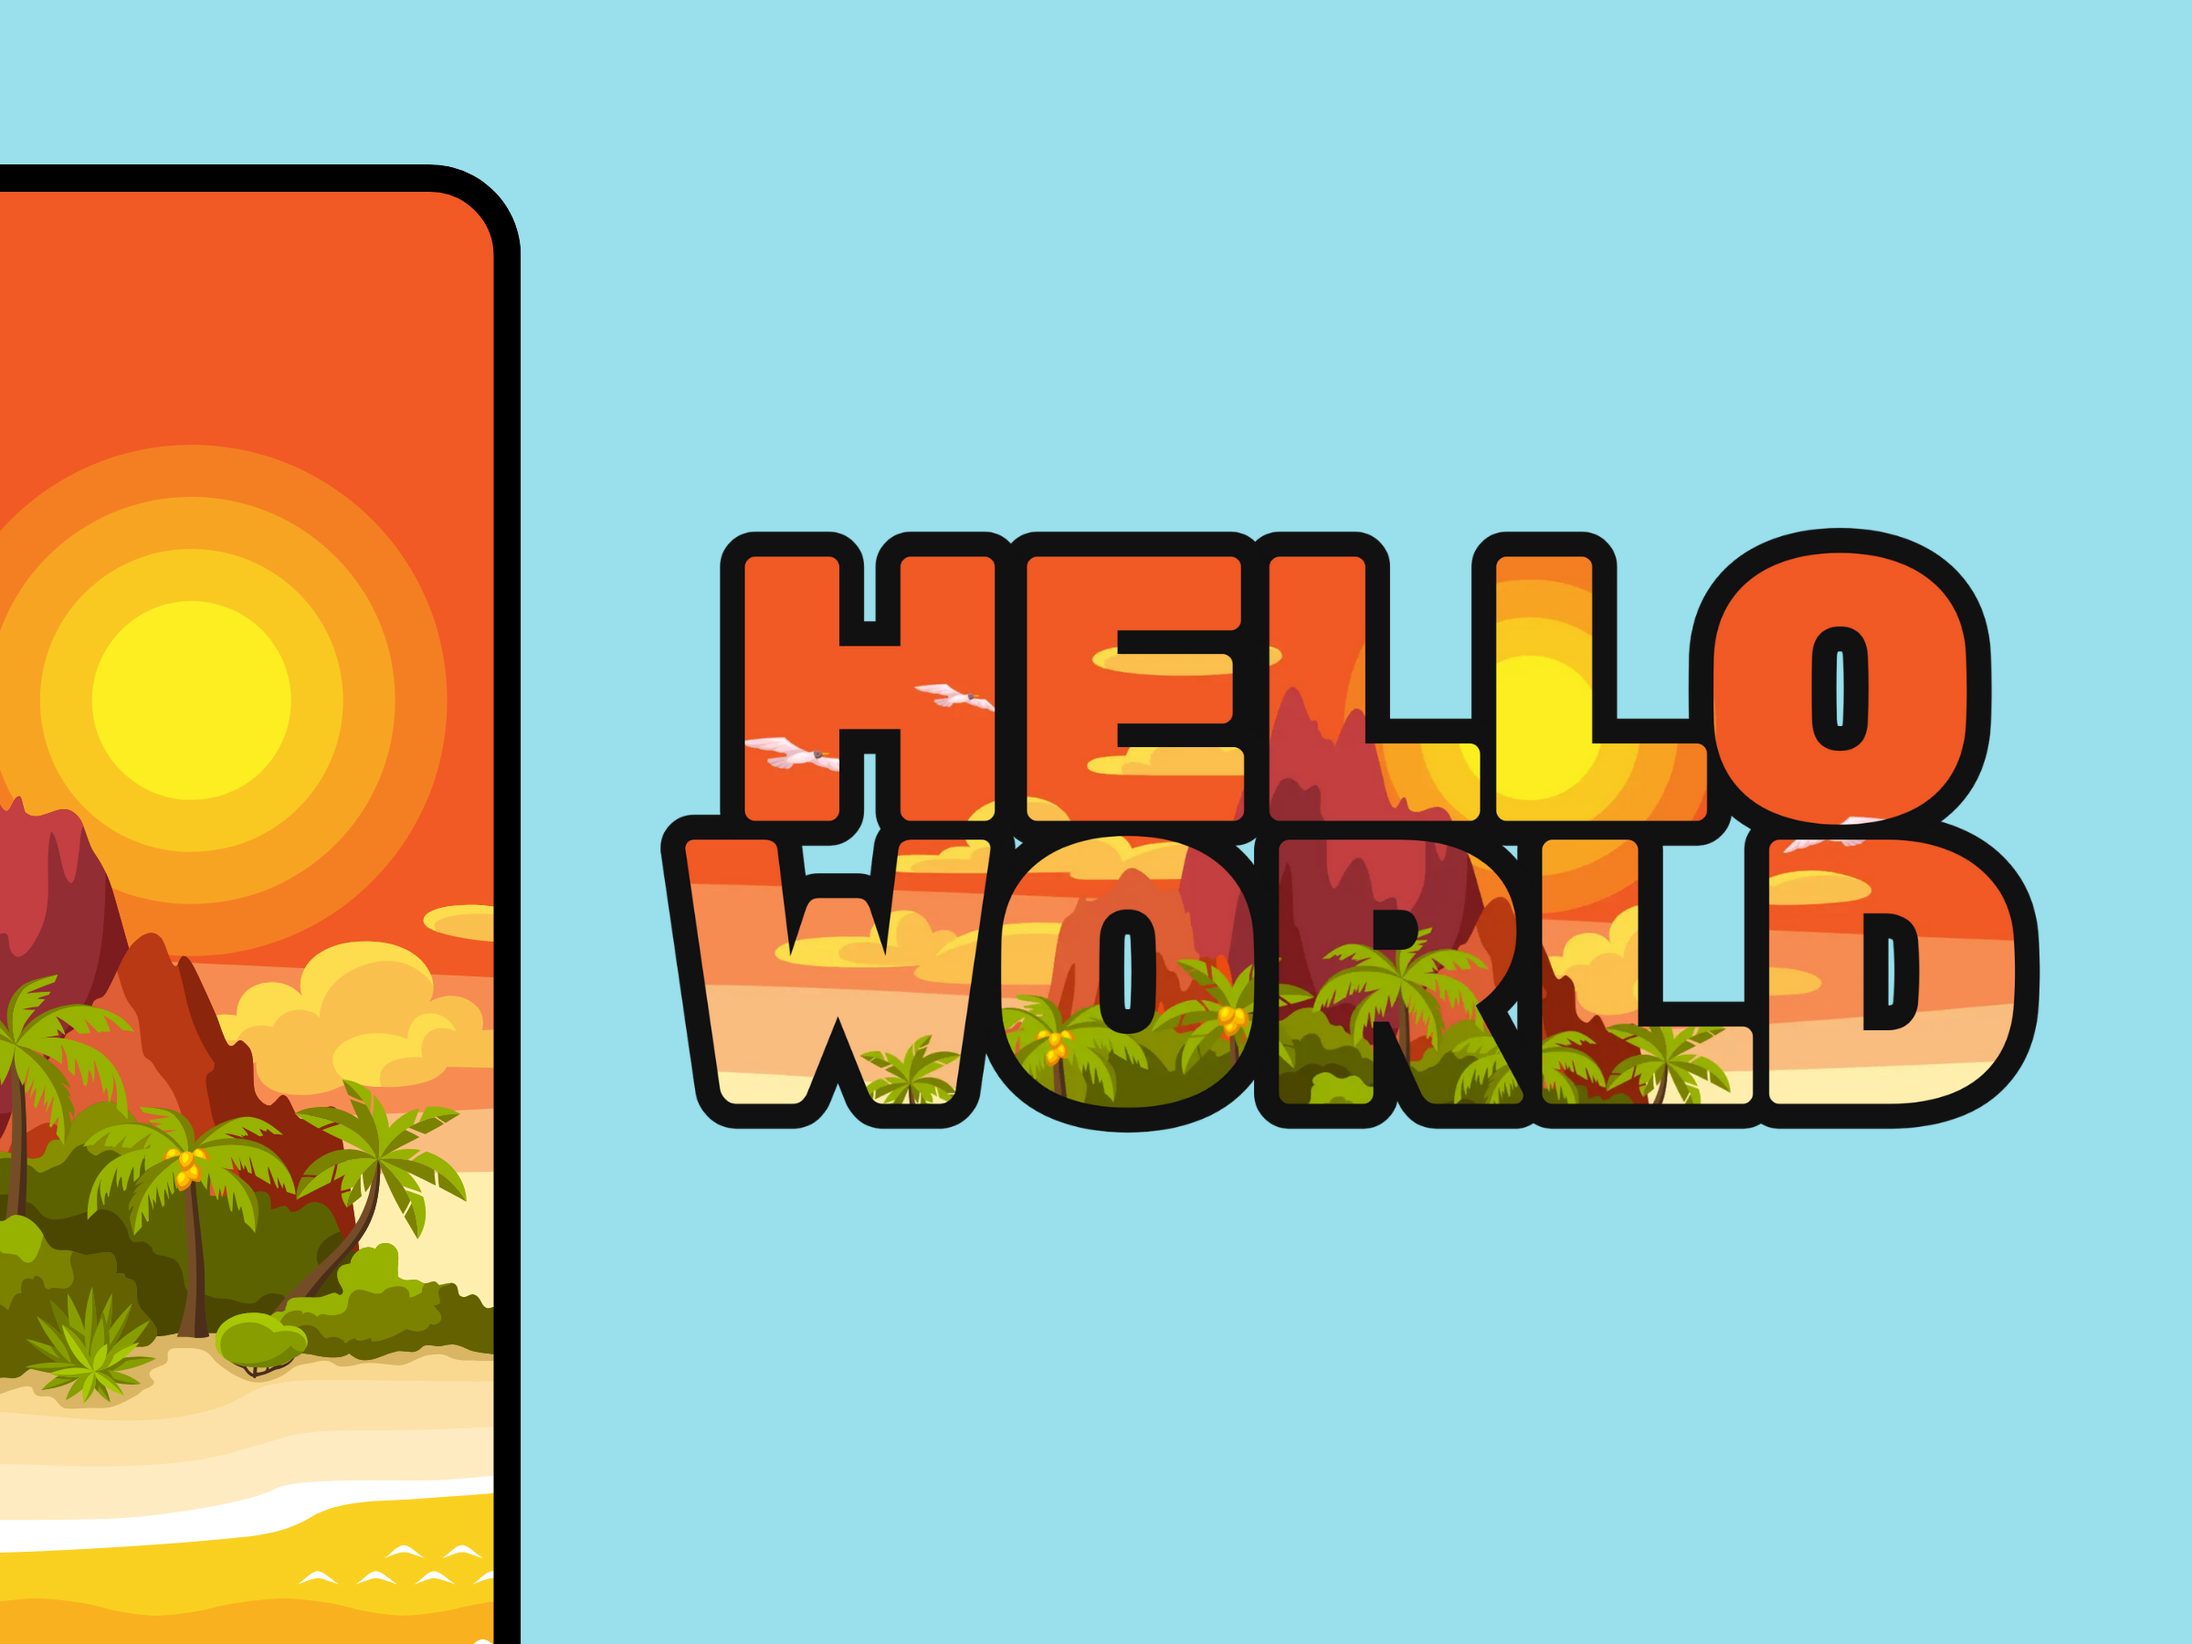
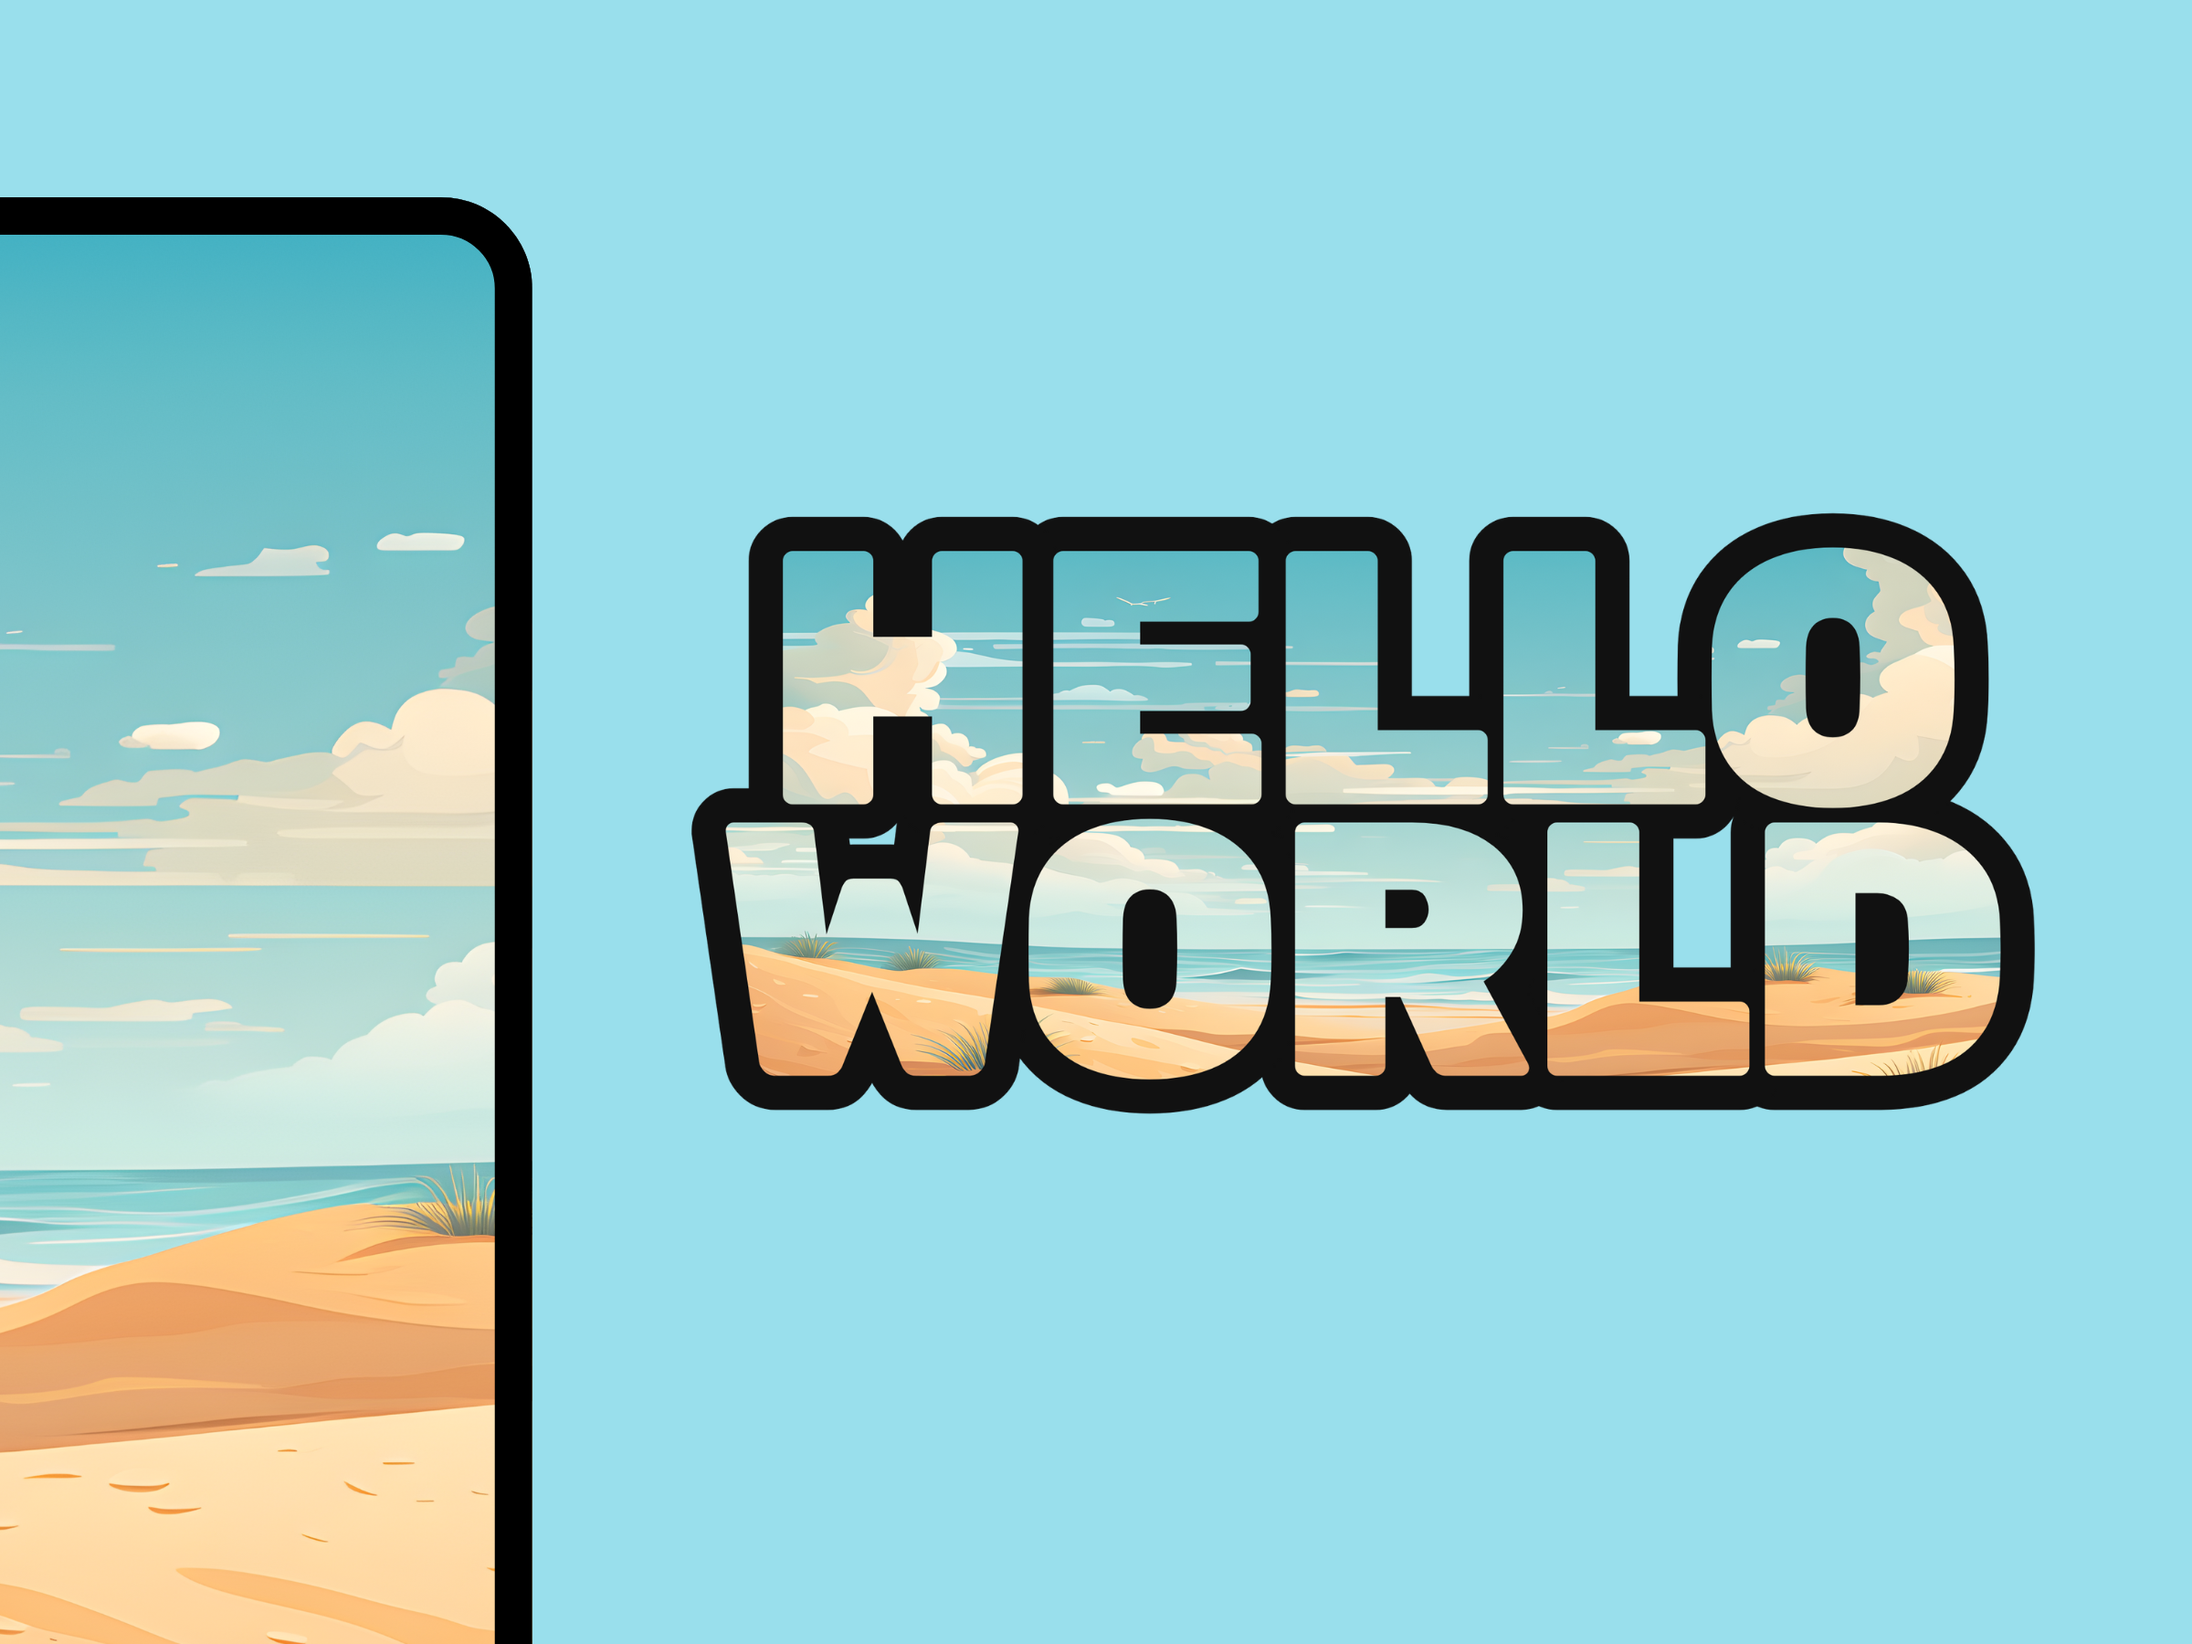
Added font studio to projects

diff --git a/src/data/projects.ts b/src/data/projects.ts
@@ -2,6 +2,15 @@ import {CoverImages} from '../utils/coverImages';
 
 export const PROJECTS = [
   {
+    title: 'FontStudio',
+    desc: ['A canva app that that allows creating advanced text effects.'],
+    img: CoverImages.fontStudio,
+    links: [
+      ['more details', '/canva/font-studio'],
+      ['canva', 'https://www.canva.com/apps/AAGLHfr5ZM0/fontstudio']
+    ]
+  },
+  {
     title: 'FontFrame',
     desc: ['A canva app that allows you to create text with any image background.'],
     img: CoverImages.fontFrame,

diff --git a/src/utils/coverImages.ts b/src/utils/coverImages.ts
@@ -4,6 +4,7 @@ import fontable from '../assets/covers/fontable.png';
 import offeringInspiration from '../assets/covers/offering-inspiration.png';
 import intervalTimer from '../assets/covers/interval-timer.png';
 import fontFrame from '../assets/canva/font-frame/1.png';
+import fontStudio from '../assets/canva/font-studio/1.png';
 
 export const CoverImages = {
   snowrunner,
@@ -12,4 +13,5 @@ export const CoverImages = {
   offeringInspiration,
   intervalTimer,
   fontFrame,
+  fontStudio
 };
